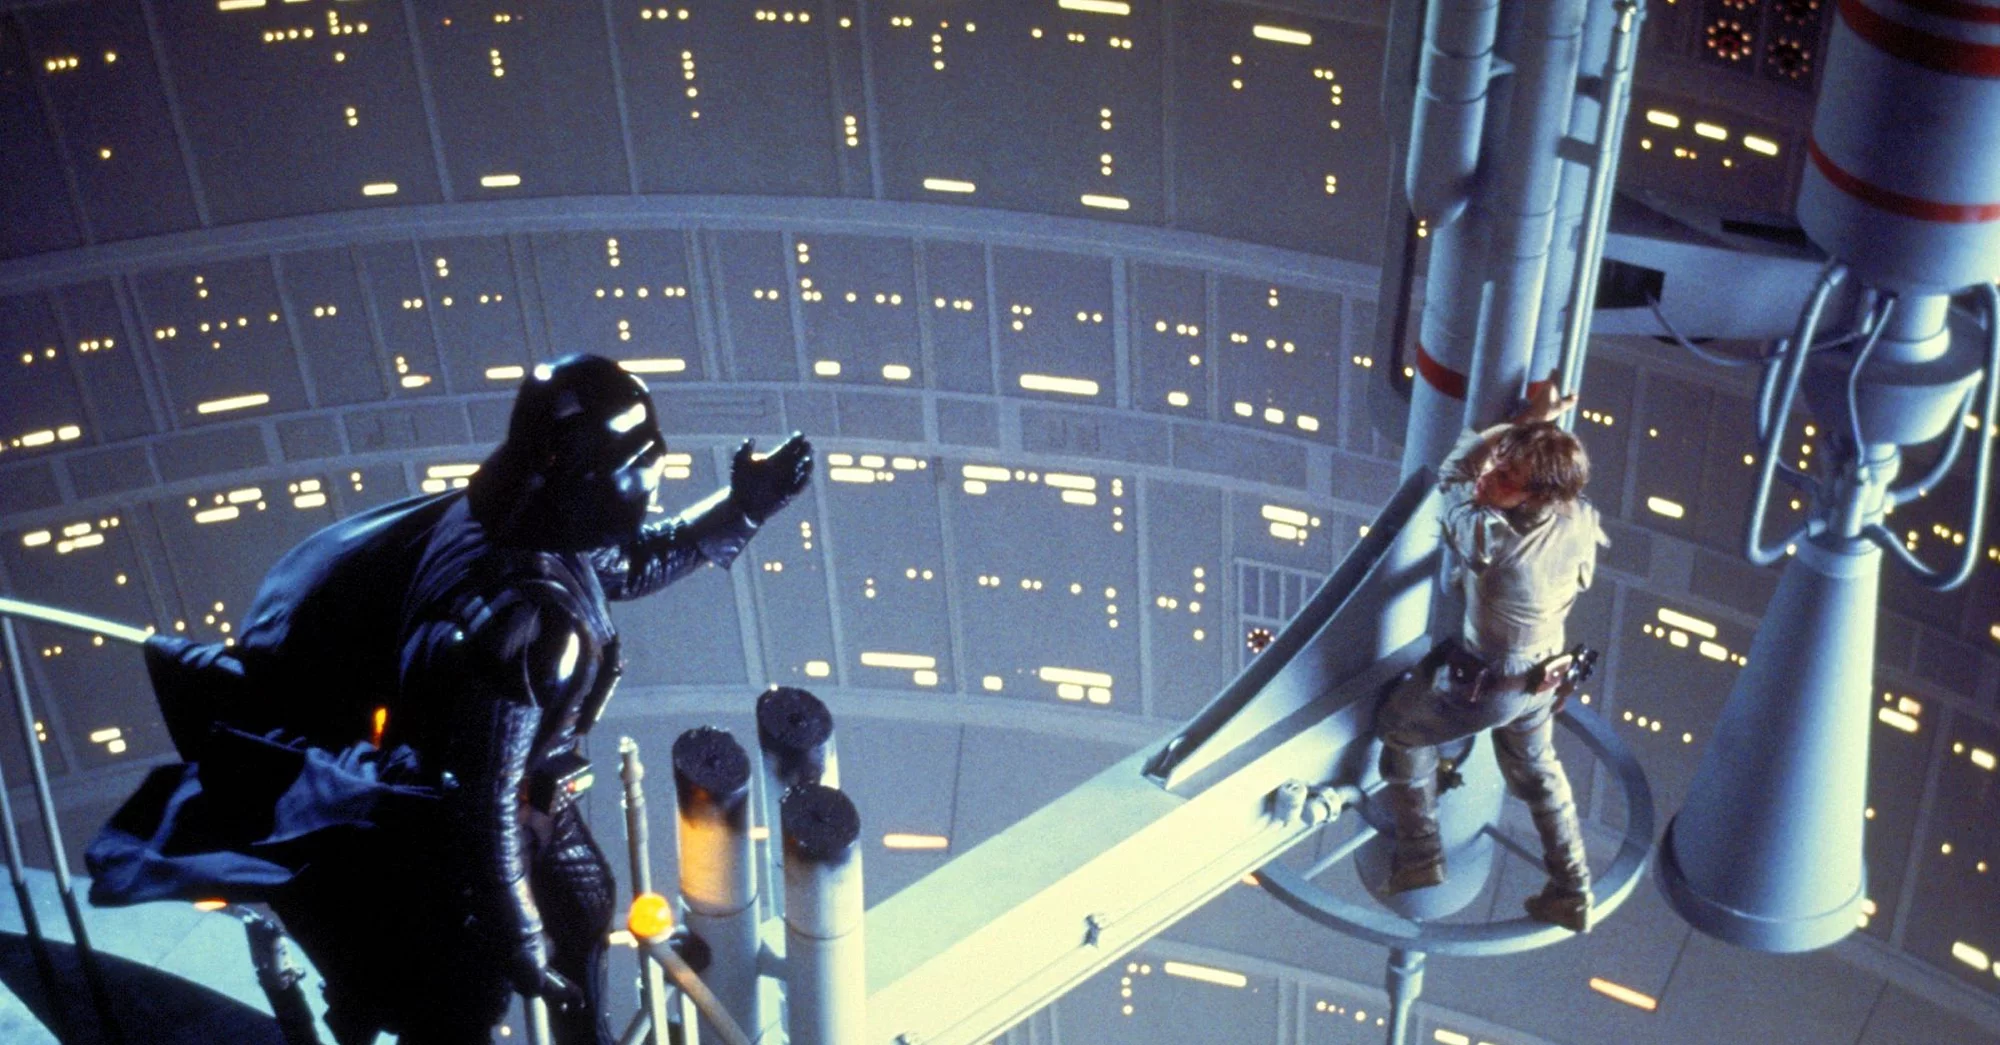
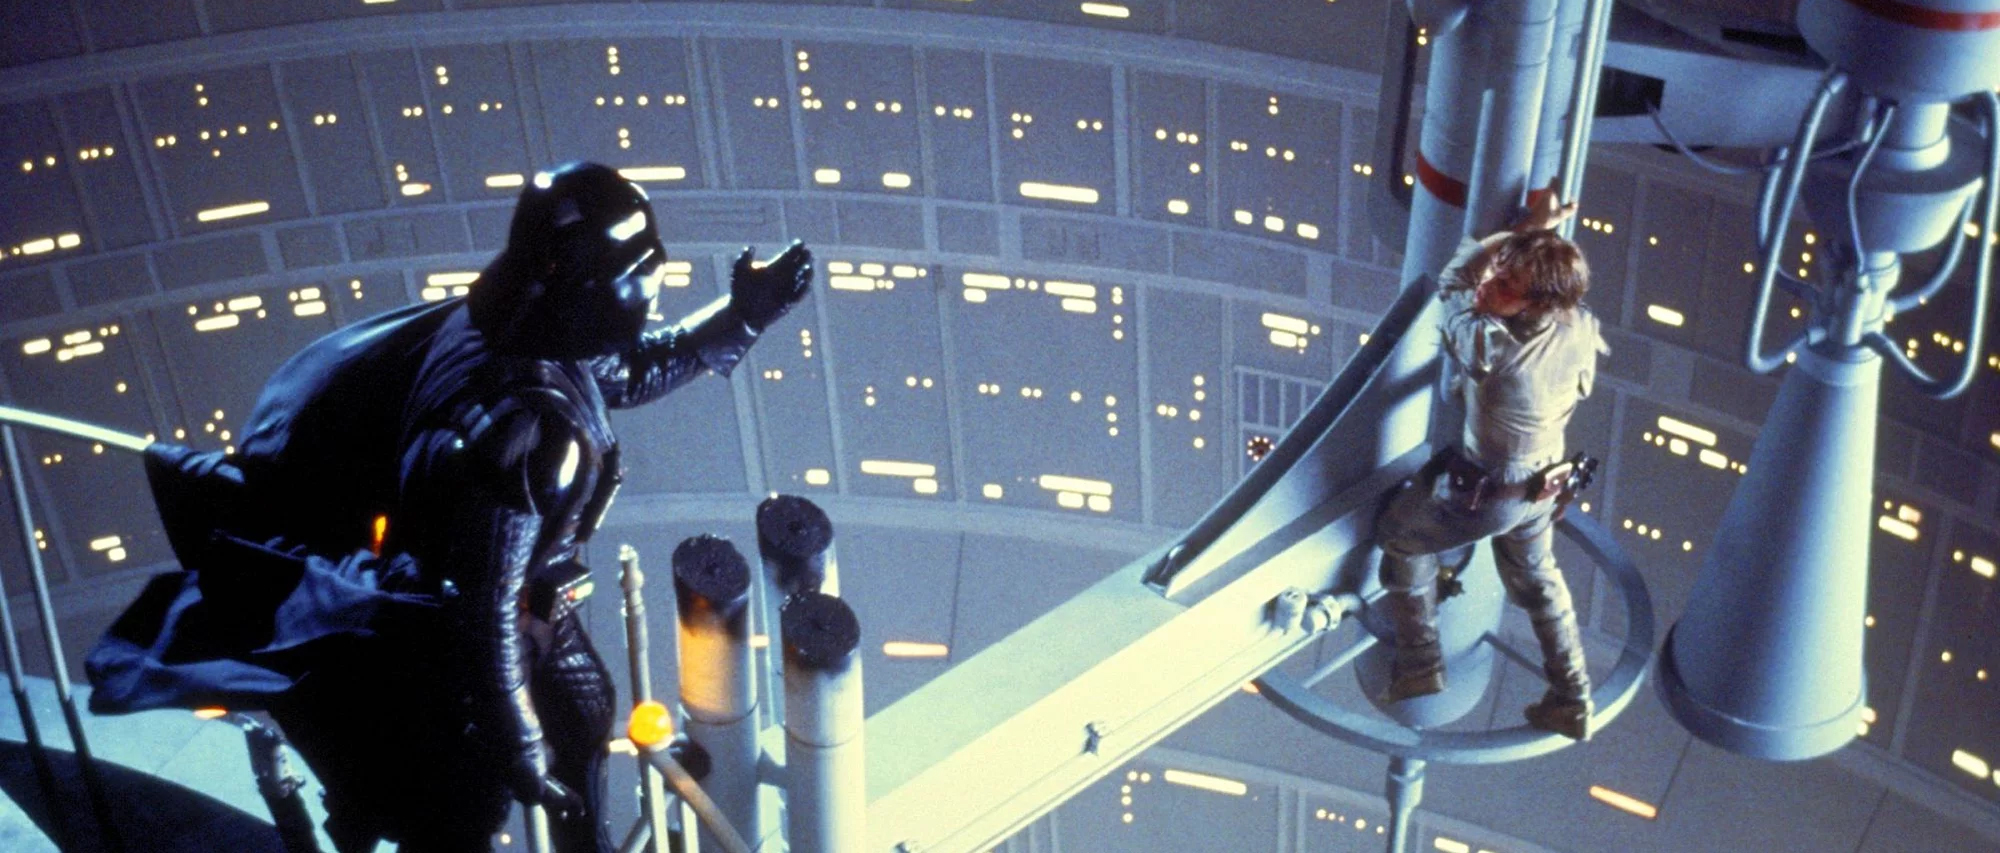
minor tweaks to image resizing

diff --git a/assets/pages/mldeploy.html b/assets/pages/mldeploy.html
@@ -24,8 +24,8 @@
         
         <div class="collapse navbar-collapse" id="navbarNavDropdown">
             <ul class="navbar-nav">
-                <li class="nav-item active">
-                    <a class="nav-link" href="/assets/pages/methodology.html">Methodology<span class="sr-only">(current)</span></a>
+                <li class="nav-item">
+                    <a class="nav-link" href="/assets/pages/methodology.html">Methodology</a>
                  </li>
                 <li class="nav-item">
                     <a class="nav-link" href="/assets/pages/dataset.html">Dataset</a>
@@ -33,8 +33,8 @@
                 <li class="nav-item">
                     <a class="nav-link" href="/assets/pages/visualizations.html">Visualizations</a>
                 </li>
-                <li class="nav-item">
-                    <a class="nav-link" href="/assets/pages/mldeploy.html">TRY IT</a>
+                <li class="nav-item active">
+                    <a class="nav-link" href="/assets/pages/mldeploy.html">TRY IT<span class="sr-only">(current)</span></a>
                 </li>
                 <!-- <li class="nav-item dropdown">
                     <a class="nav-link dropdown-toggle" href="#" id="navbarDropdownMenuLink" data-toggle="dropdown" aria-haspopup="true" aria-expanded="false">Dropdown link</a>

diff --git a/index.html b/index.html
@@ -15,7 +15,7 @@
 
 <body>
     <!-- Image and text -->
-    <nav class="navbar navbar-expand-lg navbar-dark bg-dark">
+    <nav class="navbar navbar-expand-lg navbar-dark bg-dark" id="myNav">
         <a class="navbar-brand" href="../index.html"><img src="/assets/images/filmreel.png" width="30" height="30" class="d-inline-block align-top" alt=""> ML Movie Maker</a>
         
         <button class="navbar-toggler" type="button" data-toggle="collapse" data-target="#navbarNavDropdown" aria-controls="navbarNavDropdown" aria-expanded="false" aria-label="Toggle navigation">
@@ -24,8 +24,8 @@
         
         <div class="collapse navbar-collapse" id="navbarNavDropdown">
             <ul class="navbar-nav">
-                <li class="nav-item active">
-                    <a class="nav-link" href="/assets/pages/methodology.html">Methodology<span class="sr-only">(current)</span></a>
+                <li class="nav-item">
+                    <a class="nav-link" href="/assets/pages/methodology.html">Methodology</a>
                  </li>
                 <li class="nav-item">
                     <a class="nav-link" href="/assets/pages/dataset.html">Dataset</a>

diff --git a/assets/pages/visualizations.html b/assets/pages/visualizations.html
@@ -24,14 +24,14 @@
         
         <div class="collapse navbar-collapse" id="navbarNavDropdown">
             <ul class="navbar-nav">
-                <li class="nav-item active">
-                    <a class="nav-link" href="/assets/pages/methodology.html">Methodology<span class="sr-only">(current)</span></a>
+                <li class="nav-item">
+                    <a class="nav-link" href="/assets/pages/methodology.html">Methodology</a>
                  </li>
                 <li class="nav-item">
                     <a class="nav-link" href="/assets/pages/dataset.html">Dataset</a>
                 </li>
-                <li class="nav-item">
-                    <a class="nav-link" href="/assets/pages/visualizations.html">Visualizations</a>
+                <li class="nav-item active">
+                    <a class="nav-link" href="/assets/pages/visualizations.html">Visualizations<span class="sr-only">(current)</span></a>
                 </li>
                 <li class="nav-item">
                     <a class="nav-link" href="/assets/pages/mldeploy.html">TRY IT</a>

diff --git a/assets/pages/dataset.html b/assets/pages/dataset.html
@@ -24,11 +24,11 @@
         
         <div class="collapse navbar-collapse" id="navbarNavDropdown">
             <ul class="navbar-nav">
-                <li class="nav-item active">
-                    <a class="nav-link" href="/assets/pages/methodology.html">Methodology<span class="sr-only">(current)</span></a>
-                 </li>
                 <li class="nav-item">
-                    <a class="nav-link" href="/assets/pages/dataset.html">Dataset</a>
+                    <a class="nav-link" href="/assets/pages/methodology.html">Methodology</a>
+                 </li>
+                <li class="nav-item active">
+                    <a class="nav-link" href="/assets/pages/dataset.html">Dataset<span class="sr-only">(current)</span></a>
                 </li>
                 <li class="nav-item">
                     <a class="nav-link" href="/assets/pages/visualizations.html">Visualizations</a>

diff --git a/assets/css/style.css b/assets/css/style.css
@@ -7,6 +7,10 @@ body {
     background-color: black;
 }
 
+#myNav {
+    background-color: #5cb85c;
+}
+
 .jumbotron {
     background-color: black;
 }
@@ -21,7 +25,7 @@ body {
 .row {
     margin-left: 0px;
     margin-right: 0px;
-    height: 650px;
+    height: 65%;
     overflow: hidden;
     display: flex;
     align-items: center;
@@ -37,8 +41,8 @@ body {
 
 
 .btn-primary {
-    /* border-color: #006b1e;
-    background-color: #006b1e; */
+    /* border-color: #5cb85c;
+    background-color: #5cb85c; */
 }
 
 h1 {
